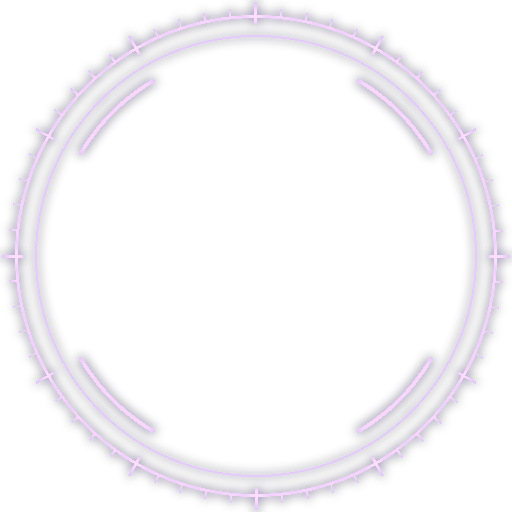
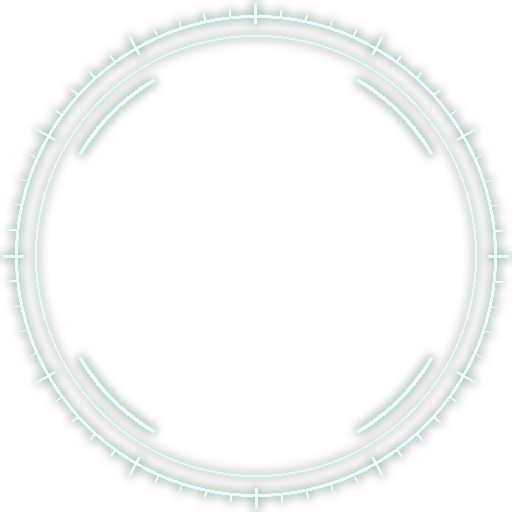
Flow Striker v0.1.1: switch Flow color from dark blue/violet to green
Palette remap (emerald + bright green, mint highlights) for all recolored
effects and textures, and green versions of the original art (ball glow,
chains, METAVISION eye, reticle, pitch lines, seam glow, bead rim light).

Claude-Session: https://claude.ai/code/session_01JXB4p6cC5uRVsPTQgRh3hi

diff --git a/lol-mod/tools/build_mod.py b/lol-mod/tools/build_mod.py
@@ -25,7 +25,7 @@ HERE = os.path.dirname(os.path.abspath(__file__))
 ROOT = os.path.dirname(HERE)
 GEN = os.path.join(ROOT, 'assets_src', 'gen')
 BUILD = os.path.join(ROOT, 'build')
-VERSION = '0.1.0'
+VERSION = '0.1.1'
 
 SKIN = 'Characters/Yunara/Skins/Skin0'
 PART = SKIN + '/Particles/'
@@ -143,7 +143,7 @@ def step_bead_balls(b, game):
     files['assets/characters/yunara/skins/base/yunara_base.skn'] = open(out, 'rb').read()
     os.remove(out)
     # 2) material: point the bead material at the football texture (same-length path keeps the
-    #    raw entry valid) and make the rim light Flow-violet
+    #    raw entry valid) and make the rim light Flow-green
     # (texture paths inside these material entries are stored as xxh64 hashes)
     old_path = 'assets/characters/yunara/skins/base/yunara_base_weapon_tx_cm.tex'
     new_path = 'assets/characters/yunara/skins/base/mvfx_soccerball_beads_cm.tex'
@@ -154,7 +154,7 @@ def step_bead_balls(b, game):
     raw = e.raw.replace(old_h, new_h)
     old_fres = struct.pack('<4f', 0.5799953937530518, 0.5300068855285645, 1.0, 0.6000000238418579)
     if raw.count(old_fres) == 1:
-        raw = raw.replace(old_fres, struct.pack('<4f', 0.47, 0.30, 1.0, 0.55))
+        raw = raw.replace(old_fres, struct.pack('<4f', 0.30, 1.0, 0.52, 0.55))
     e.raw = raw
     put_tex(new_path, gen('ball_albedo'))
     # 3) keep the idle orb aura subtle so the ball stays readable
@@ -174,14 +174,14 @@ def step_bead_balls(b, game):
 
 
 def step_ult_bead_seams(b):
-    """During R the eight footballs get glowing violet seams (attached-mesh glow on the beads)."""
+    """During R the eight footballs get glowing green seams (attached-mesh glow on the beads)."""
     put_tex(MV + 'mvfx_ball_seams.tex', gen('ball_seams_glow'))
     path = PART + 'MV_R_BeadSeams'
     st = V.clone_system(b, PART + 'Yunara_Base_Q_Buff_OnBeads', path, keep_emitters={'ADD_EdgeGlow'})
     em = V.find_emitter(st, 'ADD_EdgeGlow')
     em.set('emitterName', L.STRING, 'MV_SeamGlow')
     em.set('texture', L.STRING, MV + 'mvfx_ball_seams.tex')
-    em.set('birthColor', L.EMBED, V.vcolor((0.62, 0.42, 1.0, 1.0)))
+    em.set('birthColor', L.EMBED, V.vcolor((0.42, 1.0, 0.60, 1.0)))
     em.remove('texDiv')
     em.set('birthScale0', L.EMBED, V.vvec3((1.012, 1.0, 1.0)))
     V.add_resource(b, RES, 'MV_R_BeadSeams', path)
@@ -224,7 +224,7 @@ def step_ult_cast(b):
     lp, lu, lt = make_assets.chain_link()
     files[MV + 'mvfx_chain_link.scb'] = scb_bytes(lp, lu, lt, 'mvfx_chain_link')
     T = lambda n: MV + 'mvfx_' + n + '.tex'
-    VIO = (0.55, 0.36, 1.0); BLU = (0.20, 0.30, 1.0); LAV = (0.85, 0.80, 1.0)
+    FLOW = (0.30, 1.0, 0.52); DEEP = (0.04, 0.62, 0.34); HI = (0.84, 1.0, 0.90)
     fade = lambda c, t_in=0.08, t_out=0.85: ([0.0, t_in, t_out, 1.0], [c + (0.0,), c + (1.0,), c + (1.0,), c + (0.0,)])
     ems = []
     BREAK = 0.30
@@ -239,7 +239,7 @@ def step_ult_cast(b):
         ems.append(V.emitter(f'MV_ChainGlow{k}', T('chain_metal'), blend=4, life=BREAK + 0.02, pos=pos, rotation=rot,
                              scale=(1.03, 1.03, 1.03), scale_curve=tighten, spin=(0, 25 * (1 if k % 2 else -1), 0),
                              mesh=MV + 'mvfx_chain_ring.scb', pass_=9010 + k, backface=True,
-                             color_curve=([0.0, 0.5, 0.88, 1.0], [VIO + (0.0,), VIO + (0.35,), LAV + (1.0,), (1, 1, 1, 0.0)])))
+                             color_curve=([0.0, 0.5, 0.88, 1.0], [FLOW + (0.0,), FLOW + (0.35,), HI + (1.0,), (1, 1, 1, 0.0)])))
     # ---- the burst
     ems.append(V.emitter('MV_ChainShards', T('chain_metal'), blend=1, single=False, rate=650, emitter_life=0.05,
                          delay=BREAK, life=0.95, bind=0.0, pos=(0, 105, 0), spawn_radius=60,
@@ -248,24 +248,24 @@ def step_ult_cast(b):
                          velocity=V.vvec3((950, 650, 950), rand=[(-1, 1), (0.15, 1.0), (-1, 1)]),
                          accel=(0, -1700, 0), rotation=V.vvec3((180, 180, 180), rand=[(-1, 1)] * 3),
                          spin=V.vvec3((900, 700, 0), rand=[(-1, 1), (-1, 1), None]),
-                         color_curve=([0.0, 0.1, 0.65, 1.0], [LAV + (1.0,), (1, 1, 1, 1.0), (1, 1, 1, 1.0), VIO + (0.0,)]),
+                         color_curve=([0.0, 0.1, 0.65, 1.0], [HI + (1.0,), (1, 1, 1, 1.0), (1, 1, 1, 1.0), FLOW + (0.0,)]),
                          pass_=9020))
     ems.append(V.emitter('MV_BurstFlash', T('flash_star'), blend=4, delay=BREAK - 0.02, life=0.38, pos=(0, 110, 0),
                          scale=(95, 95, 1), scale_curve=([0, 0.18, 1], [(0.3,) * 3, (1.35,) * 3, (1.7,) * 3]),
-                         color_curve=([0, 0.2, 1], [(1, 1, 1, 1), LAV + (0.9,), VIO + (0.0,)]),
+                         color_curve=([0, 0.2, 1], [(1, 1, 1, 1), HI + (0.9,), FLOW + (0.0,)]),
                          rotation=V.vvec3((45, 0, 0), rand=[(-1, 1), None, None]), pass_=9030))
     ems.append(V.emitter('MV_BurstRing', T('shock_ring'), blend=4, delay=BREAK, life=0.45, pos=(0, 110, 0),
                          scale=(40, 40, 1), scale_curve=([0, 1], [(1,) * 3, (6.0,) * 3]),
-                         color_curve=([0, 0.15, 1], [LAV + (0.0,), VIO + (1.0,), BLU + (0.0,)]), pass_=9031))
+                         color_curve=([0, 0.15, 1], [HI + (0.0,), FLOW + (1.0,), DEEP + (0.0,)]), pass_=9031))
     ems.append(V.emitter('MV_BurstGround', T('shock_ring'), blend=4, delay=BREAK, life=0.6, bind=0.0,
                          rotation=(-90, -90, 0), ground=True, scale=(60, 60, 1),
                          scale_curve=([0, 1], [(1,) * 3, (7.0,) * 3]),
-                         color_curve=([0, 0.1, 1], [VIO + (0.0,), VIO + (1.0,), BLU + (0.0,)]), pass_=-2900))
+                         color_curve=([0, 0.1, 1], [FLOW + (0.0,), FLOW + (1.0,), DEEP + (0.0,)]), pass_=-2900))
     ems.append(V.emitter('MV_BurstSparks', P + 'base_generic_sparks_add.tex', blend=4, single=False, rate=1800,
                          emitter_life=0.03, delay=BREAK, life=0.5, bind=0.0, pos=(0, 110, 0), spawn_radius=30,
                          scale=(7, 7, 7), velocity=V.vvec3((1200, 900, 1200), rand=[(-1, 1), (-0.4, 1), (-1, 1)]),
                          drag=(3.0, 3.0, 3.0), direction_oriented=True, dir_scale=0.004,
-                         color_curve=([0, 0.6, 1], [LAV + (1.0,), VIO + (0.8,), BLU + (0.0,)]), pass_=9032))
+                         color_curve=([0, 0.6, 1], [HI + (1.0,), FLOW + (0.8,), DEEP + (0.0,)]), pass_=9032))
     # ---- the METAVISION eye
     EYE_T = 0.42; EYE_L = 1.45; EYE_POS = (0, 300, 0); EYE_S = (145, 72, 1)
     opening = ([0.0, 0.09, 0.15, 1.0], [(1, 0.02, 1), (1, 1.12, 1), (1, 1, 1), (1.03, 1.03, 1)])
@@ -273,31 +273,31 @@ def step_ult_cast(b):
                          scale=EYE_S, uniform=False, scale_curve=opening, color_curve=fade((1.0, 1.0, 1.0)), pass_=9100))
     ems.append(V.emitter('MV_EyeReticle', T('reticle'), blend=4, delay=EYE_T + 0.05, life=EYE_L - 0.05, pos=EYE_POS,
                          scale=(165, 165, 1), scale_curve=([0, 0.15, 1], [(1.35,) * 3, (1.0,) * 3, (0.97,) * 3]),
-                         spin=(32, 0, 0), color_curve=fade(tuple(x * 0.75 for x in VIO), 0.12, 0.8), pass_=9101))
+                         spin=(32, 0, 0), color_curve=fade(tuple(x * 0.75 for x in FLOW), 0.12, 0.8), pass_=9101))
     ems.append(V.emitter('MV_Eye', T('eye'), blend=4, delay=EYE_T, life=EYE_L, pos=EYE_POS, scale=EYE_S,
                          uniform=False, scale_curve=opening, pass_=9102,
                          color_curve=([0.0, 0.08, 0.16, 0.84, 0.92, 1.0],
                                       [(0.5, 0.4, 1, 0), (1, 1, 1, 1), (1, 1, 1, 1), (0.9, 0.85, 1, 1), (1, 1, 1, 1), (1, 1, 1, 0)])))
     ems.append(V.emitter('MV_EyeTextFlare', T('eye_text'), blend=4, delay=EYE_T + 0.16, life=0.45, pos=EYE_POS,
                          scale=EYE_S, uniform=False, pass_=9103,
-                         color_curve=([0, 0.15, 1], [(1, 1, 1, 0), (1, 1, 1, 1), VIO + (0,)])))
+                         color_curve=([0, 0.15, 1], [(1, 1, 1, 0), (1, 1, 1, 1), FLOW + (0,)])))
     ems.append(V.emitter('MV_PupilFlash', T('flash_star'), blend=4, delay=EYE_T + 0.16, life=0.32,
                          pos=(0, 305, 0), scale=(50, 50, 1), scale_curve=([0, 0.25, 1], [(0.2,) * 3, (1.4,) * 3, (0.8,) * 3]),
-                         color_curve=([0, 0.25, 1], [(1, 1, 1, 1), LAV + (1,), VIO + (0,)]), pass_=9104))
+                         color_curve=([0, 0.25, 1], [(1, 1, 1, 1), HI + (1,), FLOW + (0,)]), pass_=9104))
     # ---- dissolve into light lines that rain down and draw a pitch on the ground
     END = EYE_T + EYE_L - 0.12
     ems.append(V.emitter('MV_EyeEndFlash', T('flash_star'), blend=4, delay=END, life=0.28, pos=EYE_POS,
                          scale=(110, 110, 1), scale_curve=([0, 1], [(0.5,) * 3, (1.5,) * 3]),
-                         color_curve=([0, 0.2, 1], [(1, 1, 1, 0.9), LAV + (0.7,), VIO + (0,)]), pass_=9105))
+                         color_curve=([0, 0.2, 1], [(1, 1, 1, 0.9), HI + (0.7,), FLOW + (0,)]), pass_=9105))
     ems.append(V.emitter('MV_LightLines', T('light_dot'), blend=4, single=False, rate=1100, emitter_life=0.05,
                          delay=END, life=0.6, bind=0.0, pos=EYE_POS, spawn_radius=110, scale=(6, 6, 6),
                          velocity=V.vvec3((750, 950, 750), rand=[(-1, 1), (-1.0, 0.25), (-1, 1)]),
                          drag=(1.5, 1.5, 1.5), direction_oriented=True, dir_scale=0.006,
-                         color_curve=([0, 0.5, 1], [LAV + (1,), VIO + (0.9,), BLU + (0,)]), pass_=9106))
+                         color_curve=([0, 0.5, 1], [HI + (1,), FLOW + (0.9,), DEEP + (0,)]), pass_=9106))
     ems.append(V.emitter('MV_PitchLines', T('pitch_lines'), blend=4, delay=END + 0.15, life=1.0, bind=0.0,
                          rotation=(-90, -90, 0), ground=True, scale=(235, 235, 1),
                          scale_curve=([0, 0.2, 1], [(0.82,) * 3, (1.0,) * 3, (1.04,) * 3]),
-                         color_curve=([0, 0.12, 0.6, 1], [LAV + (0,), (1, 1, 1, 1), VIO + (0.8,), BLU + (0,)]), pass_=-2890))
+                         color_curve=([0, 0.12, 0.6, 1], [HI + (0,), (1, 1, 1, 1), FLOW + (0.8,), DEEP + (0,)]), pass_=-2890))
     cast = b.entry(PART + 'Yunara_Base_R_Cast').struct
     # Yunara's own ground cast symbols are replaced by the pitch + shockwave
     f = cast.field('complexEmitterDefinitionData')
@@ -344,7 +344,7 @@ def main(game):
     files['data/characters/yunara/skins/skin0.bin'] = data
     wad = wad_bytes(files)
     info = {'Name': 'Flow Striker (Yunara)', 'Author': 'Flow Striker Project', 'Version': VERSION,
-            'Description': 'Football beads + projectiles, dark blue/violet Flow effects, METAVISION ult. Replaces the base skin.',
+            'Description': 'Football beads + projectiles, green Flow effects, METAVISION ult. Replaces the base skin.',
             'Heading': '', 'Home': ''}
     out = os.path.join(BUILD, f'FlowStriker_Yunara_v{VERSION}.fantome')
     with zipfile.ZipFile(out, 'w', zipfile.ZIP_DEFLATED) as z:

diff --git a/lol-mod/tools/make_assets.py b/lol-mod/tools/make_assets.py
@@ -15,9 +15,9 @@ ROOT = os.path.dirname(HERE)
 OUT = os.path.join(ROOT, 'assets_src', 'gen')
 FONT = os.path.join(ROOT, 'assets_src', 'fonts', 'BigShoulders-Bold.ttf')
 
-VIOLET = np.array([0.48, 0.27, 1.00])     # Flow violet
-BLUE = np.array([0.12, 0.22, 0.95])       # deep royal blue
-LAVENDER = np.array([0.80, 0.74, 1.00])   # highlight
+FLOW = np.array([0.22, 1.00, 0.48])       # Flow green
+DEEP = np.array([0.02, 0.55, 0.30])       # deep emerald
+HIGHLIGHT = np.array([0.82, 1.00, 0.88])  # mint highlight
 
 
 def save(arr, name):
@@ -124,13 +124,13 @@ def make_ball_sprite(name, glow=0.35, rim=0.25, seam_emit=0.0, size=256):
     shade = 0.58 + 0.42 * nz ** 0.55                       # rotation-symmetric -> safe to spin
     col = col * shade[..., None]
     fres = (1 - nz) ** 2.2
-    col = col * (1 - rim * fres[..., None]) + VIOLET * (rim * 1.6 * fres[..., None])
+    col = col * (1 - rim * fres[..., None]) + FLOW * (rim * 1.6 * fres[..., None])
     if seam_emit > 0:
         g = seam_glow(e / (1 + 0.8 * seam_emit))[..., None] * seam_emit
-        col = col * (1 - 0.8 * np.clip(g, 0, 1)) + (VIOLET * 1.0 + LAVENDER * 0.45) * g * 1.25
+        col = col * (1 - 0.8 * np.clip(g, 0, 1)) + (FLOW * 1.0 + HIGHLIGHT * 0.45) * g * 1.25
     aa = 1 - smoothstep(R - 0.008, R + 0.004, r)
     halo = glow * np.exp(-((r - R) / 0.075) ** 2) * (r >= R - 0.01)
-    rgb = col * aa[..., None] + (VIOLET * 0.9 + 0.1) * halo[..., None] * (1 - aa[..., None])
+    rgb = col * aa[..., None] + (FLOW * 0.9 + 0.1) * halo[..., None] * (1 - aa[..., None])
     a = np.clip(aa + halo * (1 - aa), 0, 1)
     rgb = np.where(a[..., None] > 1e-4, rgb / np.maximum(a[..., None], 1e-4) * np.minimum(a[..., None], 1), 0)
     save(np.concatenate([np.clip(rgb, 0, 1), a[..., None]], -1), name)
@@ -213,9 +213,9 @@ def make_chain_texture():
     U, V = np.meshgrid(u, v)
     th = V * 2 * np.pi
     light = 0.5 + 0.5 * np.sin(th)                       # top of tube bright, underside dark
-    steel = np.array([0.15, 0.15, 0.22]) + np.array([0.55, 0.52, 0.80]) * (light ** 3)[..., None]
-    spec = np.exp(-((V - 0.25) / 0.05) ** 2)[..., None] * np.array([0.9, 0.88, 1.0])
-    edge = np.exp(-((V - 0.75) / 0.07) ** 2)[..., None] * VIOLET * 0.9  # energy edge on underside
+    steel = np.array([0.13, 0.16, 0.15]) + np.array([0.58, 0.68, 0.62]) * (light ** 3)[..., None]
+    spec = np.exp(-((V - 0.25) / 0.05) ** 2)[..., None] * np.array([0.88, 1.0, 0.92])
+    edge = np.exp(-((V - 0.75) / 0.07) ** 2)[..., None] * FLOW * 0.9  # energy edge on underside
     wear = (np.sin(U * 2 * np.pi * 4 + 1.3) * 0.5 + 0.5)[..., None] * 0.06
     rgb = steel + spec * 0.55 + edge + wear
     save(np.concatenate([np.clip(rgb, 0, 1), np.ones((h, w, 1))], -1), 'chain_metal')
@@ -293,15 +293,15 @@ def make_eye(w=1024, h=512):
     bright = np.clip(line + rings + core + cross + text, 0, 1.5)
     soft = np.clip(iris_fill + tglow * 0.9 + sclera, 0, 1)
     inten = np.clip(bright + soft, 0, 1)
-    rgb = np.clip(LAVENDER * np.clip(bright, 0, 1)[..., None] + VIOLET * soft[..., None] * 1.8 +
-                  BLUE * sclera[..., None] * 2.0, 0, 1)
+    rgb = np.clip(HIGHLIGHT * np.clip(bright, 0, 1)[..., None] + FLOW * soft[..., None] * 1.8 +
+                  DEEP * sclera[..., None] * 2.0, 0, 1)
     save(np.concatenate([rgb, inten[..., None]], -1), 'eye')
     # same layout, only the word (for the sequential light sweep over the letters)
     tl = np.clip(text + tglow * 0.6, 0, 1)
     save(np.stack([np.ones_like(tl), np.ones_like(tl), np.ones_like(tl), tl], -1), 'eye_text')
     # dark backing (alpha blended) so the eye reads on bright ground
     back = inside * 0.62 * smoothstep(0.0, 0.06, np.minimum(du, dl))
-    save(np.stack([np.full_like(x, 0.02), np.full_like(x, 0.02), np.full_like(x, 0.09), back], -1), 'eye_backing')
+    save(np.stack([np.full_like(x, 0.01), np.full_like(x, 0.07), np.full_like(x, 0.035), back], -1), 'eye_backing')
     # angular gradient (clockwise from 12 o'clock) used as erosion map for the letter sweep
     ang = (np.degrees(np.arctan2(x - icx, y - icy)) % 360) / 360
     g = (ang * 255).astype(np.uint8)
@@ -327,7 +327,7 @@ def make_reticle(size=512):
     a = np.asarray(img).astype(float) / 255
     glow = np.asarray(img.filter(ImageFilter.GaussianBlur(5))).astype(float) / 255
     i = np.clip(a + glow * 0.9, 0, 1)
-    rgb = np.clip(LAVENDER * a[..., None] + VIOLET * glow[..., None] * 1.3, 0, 1)
+    rgb = np.clip(HIGHLIGHT * a[..., None] + FLOW * glow[..., None] * 1.3, 0, 1)
     save(np.concatenate([rgb, i[..., None]], -1), 'reticle')
 
 
@@ -384,7 +384,7 @@ def make_pitch_lines(size=1024):
     y, x = np.mgrid[0:size, 0:size].astype(float) / (size - 1) * 2 - 1
     vign = smoothstep(1.0, 0.55, np.hypot(x, y * 1.3))
     i = np.clip(a * 1.2 + glow * 1.8, 0, 1) * vign
-    rgb = np.clip(LAVENDER * a[..., None] + VIOLET * glow[..., None] * 1.5, 0, 1)
+    rgb = np.clip(HIGHLIGHT * a[..., None] + FLOW * glow[..., None] * 1.5, 0, 1)
     save(np.concatenate([rgb, i[..., None]], -1), 'pitch_lines')
 
 

diff --git a/lol-mod/tools/preview_ult.py b/lol-mod/tools/preview_ult.py
@@ -64,12 +64,12 @@ def main(skn, body_tx, ball_tx, out):
             a = curve(k, [0, 0.12, 0.6, 1], [0, 1, 0.8, 0])
             s = 235 * 2 * curve(k, [0, 0.2, 1], [0.82, 1.0, 1.04]) * scale
             x, y = project((0, 0, 0))
-            blit(c, pitch, x, y, s, s * 0.32, alpha=a, color=(0.9, 0.85, 1))
+            blit(c, pitch, x, y, s, s * 0.32, alpha=a, color=(0.85, 1, 0.9))
         if 0.30 <= t <= 0.90:
             k = (t - 0.30) / 0.6
             s = 60 * 2 * curve(k, [0, 1], [1, 7]) * scale
             x, y = project((0, 0, 0))
-            blit(c, ring, x, y, s, s * 0.32, alpha=curve(k, [0, 0.1, 1], [0, 1, 0]), color=(0.55, 0.36, 1))
+            blit(c, ring, x, y, s, s * 0.32, alpha=curve(k, [0, 0.1, 1], [0, 1, 0]), color=(0.3, 1, 0.52))
         # chains
         if t < 0.32:
             k = t / 0.32
@@ -81,13 +81,13 @@ def main(skn, body_tx, ball_tx, out):
                 pts = np.stack([64 * sc * np.cos(ph), hgt + np.sin(ph) * 64 * sc * np.sin(np.radians(tilt)), 64 * sc * np.sin(ph)], -1)
                 xs, ys = project(pts)
                 for i in range(40):
-                    col = (190, 185, 230) if i % 2 == 0 else (90, 90, 120)
+                    col = (185, 205, 192) if i % 2 == 0 else (80, 98, 88)
                     d.line([xs[i], ys[i], xs[i + 1], ys[i + 1]], fill=col, width=7 if i % 2 == 0 else 4)
                     dg.line([xs[i], ys[i], xs[i + 1], ys[i + 1]], fill=255, width=14)
             c = np.asarray(img).astype(float) / 255
             g = np.asarray(glow.filter(ImageFilter.GaussianBlur(6))).astype(float) / 255
             flare = curve(k, [0, 0.5, 0.9, 1], [0.3, 0.35, 1.0, 0.6])
-            c += g[..., None] * np.array([0.55, 0.36, 1.0]) * flare * 0.8
+            c += g[..., None] * np.array([0.3, 1.0, 0.52]) * flare * 0.8
         # burst
         if 0.28 <= t <= 0.66:
             k = (t - 0.28) / 0.38
@@ -95,7 +95,7 @@ def main(skn, body_tx, ball_tx, out):
             s = 95 * 2 * curve(k, [0, 0.18, 1], [0.3, 1.35, 1.7]) * scale
             blit(c, flash, x, y, s, s, alpha=curve(k, [0, 0.2, 1], [1, 0.9, 0]))
             s2 = 40 * 2 * curve(k, [0, 1], [1, 6]) * scale
-            blit(c, ring, x, y, s2, s2, alpha=curve(k, [0, 0.15, 1], [0, 1, 0]), color=(0.55, 0.36, 1))
+            blit(c, ring, x, y, s2, s2, alpha=curve(k, [0, 0.15, 1], [0, 1, 0]), color=(0.3, 1, 0.52))
         if 0.30 <= t <= 1.25:
             dt = t - 0.30
             for (v, ang) in shards:
@@ -105,7 +105,7 @@ def main(skn, body_tx, ball_tx, out):
                 x, y = project(p)
                 a = curve(dt / 0.95, [0, 0.65, 1], [1, 1, 0])
                 img = Image.new('RGBA', (30, 30)); dd = ImageDraw.Draw(img)
-                dd.ellipse([4, 9, 26, 21], outline=(205, 200, 255, 255), width=4)
+                dd.ellipse([4, 9, 26, 21], outline=(200, 255, 215, 255), width=4)
                 spr = np.asarray(img.rotate(ang + dt * 600)).astype(float) / 255
                 blit(c, spr, x, y, 22, 22, mode='alpha', alpha=a)
         # eye
@@ -119,7 +119,7 @@ def main(skn, body_tx, ball_tx, out):
             ew, eh = 145 * 2 * scale * sx_, 72 * 2 * scale * sy_
             blit(c, back, x, y, ew, eh, mode='alpha', alpha=a)
             rs = 165 * 2 * scale * curve(k, [0, 0.15, 1], [1.35, 1.0, 0.97])
-            blit(c, ret, x, y, rs, rs, alpha=a * curve(k, [0, 0.12, 0.8, 1], [0, 1, 1, 0]), color=(0.45, 0.34, 0.75), angle=-32 * (t - e0))
+            blit(c, ret, x, y, rs, rs, alpha=a * curve(k, [0, 0.12, 0.8, 1], [0, 1, 1, 0]), color=(0.28, 0.75, 0.42), angle=-32 * (t - e0))
             blit(c, eye, x, y, ew, eh, alpha=a)
             tk = (t - e0 - 0.16) / 0.45
             if 0 <= tk <= 1:
@@ -141,7 +141,7 @@ def main(skn, body_tx, ball_tx, out):
                 p1 = p0 - v * 0.05
                 x0, y0 = project(p0); x1, y1 = project(p1)
                 a = curve(dt / 0.6, [0, 0.5, 1], [1, 0.9, 0])
-                d.line([x0, y0, x1, y1], fill=(int(200 * a + 30), int(185 * a + 20), 255), width=3)
+                d.line([x0, y0, x1, y1], fill=(int(150 * a + 20), 255, int(175 * a + 30)), width=3)
             c = np.asarray(img).astype(float) / 255
         frames.append(Image.fromarray((np.clip(c, 0, 1) * 255).astype(np.uint8)))
     frames[0].save(out, save_all=True, append_images=frames[1:], duration=int(1000 / fps), loop=0, optimize=True)

diff --git a/lol-mod/tools/lolassets.py b/lol-mod/tools/lolassets.py
@@ -6,14 +6,14 @@ import numpy as np
 from PIL import Image
 
 # ------------------------------------------------------------------ palette
-# "Dunkelblau-Lila": every colored value is pushed into deep royal blue (222-240 deg)
-# or violet (255-280 deg). Neutral greys/whites stay neutral so cores keep their punch.
+# Flow green: every colored value is pushed into deep emerald (140-155 deg)
+# or bright green (115-135 deg). Neutral greys/whites stay neutral so cores keep their punch.
 def flow_hue(h_deg):
-    if 150 <= h_deg < 248:          # cyan / blue family -> deep royal blue
-        return 222 + (h_deg - 150) / 98 * 18
-    if 248 <= h_deg < 345:          # purple / magenta family -> violet
-        return 255 + (h_deg - 248) / 97 * 25
-    return 272                      # warm colors -> purple accent
+    if 150 <= h_deg < 248:          # cyan / blue family -> deep emerald
+        return 140 + (h_deg - 150) / 98 * 15
+    if 248 <= h_deg < 345:          # purple / magenta family -> bright green
+        return 115 + (h_deg - 248) / 97 * 20
+    return 125                      # warm colors -> green accent
 
 
 def flow_rgb(r, g, b):
@@ -49,8 +49,8 @@ def flow_image(im: Image.Image) -> Image.Image:
     # vectorised hsv
     hsv = np.asarray(Image.fromarray((rgb * 255).astype(np.uint8)).convert('HSV')).astype(np.float32)
     h = hsv[..., 0] / 255 * 360
-    h2 = np.where((h >= 150) & (h < 248), 222 + (h - 150) / 98 * 18,
-         np.where((h >= 248) & (h < 345), 255 + (h - 248) / 97 * 25, 272))
+    h2 = np.where((h >= 150) & (h < 248), 140 + (h - 150) / 98 * 15,
+         np.where((h >= 248) & (h < 345), 115 + (h - 248) / 97 * 20, 125))
     s2 = np.clip(s * 1.25 + 0.10, 0, 1)
     v2 = mx * 0.90
     out = np.stack([h2 / 360 * 255, s2 * 255, v2 * 255], -1).astype(np.uint8)

diff --git a/lol-mod/tools/render_preview.py b/lol-mod/tools/render_preview.py
@@ -60,7 +60,7 @@ def render(skn_path, textures, out, size=(900, 1100), yaw_deg=35, pitch_deg=12, 
             n /= np.linalg.norm(n, axis=-1, keepdims=True) + 1e-9
             shade = 0.55 + 0.45 * np.clip(n @ light, 0, 1)
             rim = np.clip(1 - np.abs(n[..., 2]), 0, 1) ** 3
-            col = col * shade[..., None] + rim[..., None] * np.array([0.45, 0.3, 1.0]) * 0.5
+            col = col * shade[..., None] + rim[..., None] * np.array([0.3, 1.0, 0.5]) * 0.5
             region = img[y0:y1 + 1, x0:x1 + 1]
             region[vis] = col[vis]
             zb[vis] = z[vis]

diff --git a/lol-mod/README.md b/lol-mod/README.md
@@ -3,14 +3,14 @@
 Eigener Mod für den **CSLoL Manager**. Er ersetzt Yunaras Standard-Skin (nur bei dir sichtbar).
 Alle neuen Grafiken (Fußball, Ketten, METAVISION-Auge, Spielfeld-Linien) sind selbst erstellt.
 
-## Was Version 0.1 enthält
+## Was Version 0.1.1 enthält
 
 | Teil | Änderung |
 |---|---|
 | Perlen um den Körper | werden zu 8 echten 3D-Fußbällen (schwarz-weiß) |
 | Normale Angriffe, Krits, Q-Angriffe, W | Geschosse sind drehende Fußbälle |
-| Q / W | Fußbälle mit violettem „Flow“-Leuchten |
-| Alle Effekte | Farben auf Dunkelblau-Lila umgestellt |
+| Q / W | Fußbälle mit grünem „Flow“-Leuchten |
+| Alle Effekte | Farben auf Flow-Grün umgestellt |
 | Ult (R) aktiv | die 8 Fußbälle bekommen leuchtende Nähte |
 | Ult-Aktivierung | Ketten um den Körper → werden gesprengt (Blitz, Splitter, Schockwelle) → über dem Kopf öffnet sich ein Auge, der Ring um die Pupille ist der Schriftzug **METAVISION** → zerfällt in Lichtlinien, die ein Spielfeld auf den Boden zeichnen |
 | W während der Ult | Fußball mit leuchtenden Nähten |
@@ -18,7 +18,7 @@ Alle neuen Grafiken (Fußball, Ketten, METAVISION-Auge, Spielfeld-Linien) sind s
 ## Installieren (CSLoL Manager)
 
 1. CSLoL Manager öffnen.
-2. Auf **„Add mod“** (Plus-Symbol) klicken und `FlowStriker_Yunara_v0.1.0.fantome` auswählen.
+2. Auf **„Add mod“** (Plus-Symbol) klicken und `FlowStriker_Yunara_v0.1.1.fantome` auswählen.
 3. Häkchen beim Mod setzen, dann **„Run“** drücken.
 4. League starten und im Übungstool Yunara mit dem **Standard-Skin** spielen.
 
